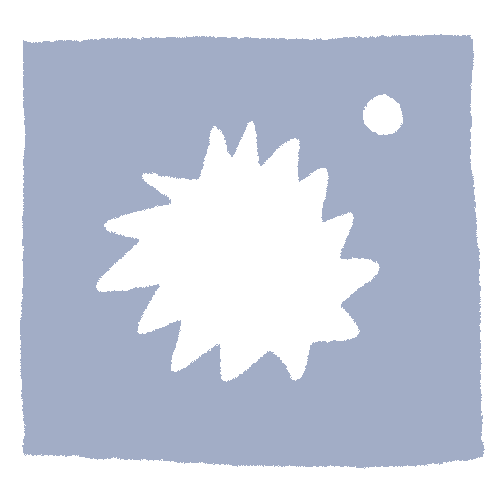
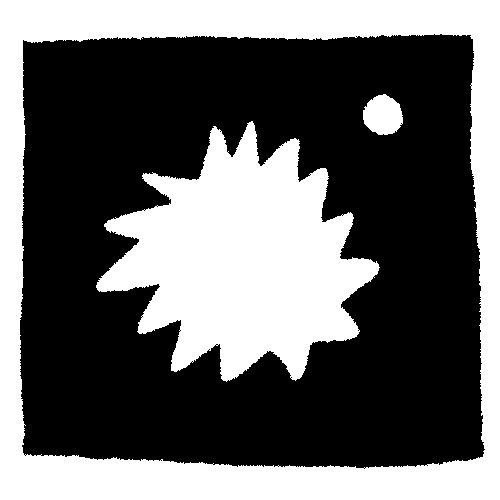
black text

diff --git a/docs/scripts/menu.js/style.css b/docs/scripts/menu.js/style.css
@@ -29,16 +29,16 @@ body{
    
   }
   .icon p {
-    color:rgb(231, 77, 43);
+    color:black;
 /*   
     font-style: italic; */
     font-size: 2vmin;
     text-align: center;
-    background: blue;
+    /* background: blue; */
     
   }
 .text:hover{
-  color: lightsteelblue;
+  color: rgb(231, 77, 43);
 }
 
   /* DROPDOWN */
@@ -56,7 +56,7 @@ body{
     margin-top: 2vmin;
     overflow: hidden;
     transition: all 0.7s;
-    background: pink;
+    /* background: pink; */
   }
   .top {
     transition: all 0.2s;
@@ -68,7 +68,7 @@ body{
   } */
   .menu a {
     text-decoration: none;
-    color: rgb(231, 77, 43);
+    color: BLACK;
     font-size: 2vmin;
     padding: 1.5vmin;
     
@@ -94,7 +94,7 @@ body{
 
 
 .home-house{
-  background: url('image/home-image-2.png');
+  background: url('image/home-image.png');
   height: 25px;
   width: 25px;
   background-position: center;
@@ -105,7 +105,7 @@ body{
 }
 
 .home-house:hover{
-  background: url('image/home-image.png');
+  background: url('image/home-image-2.png');
   height: 25px;
   width: 25px;
   background-position: center;
@@ -113,19 +113,19 @@ body{
 }
   .ow:hover {
     font-style: italic;
-    background: rgba(157,154,244, .3);
+    /* background: rgba(157,154,244, .3); */
   }
   .works:hover {
     font-style: italic;
-    background: rgba(185,210,100, .3);
+    /* background: rgba(185,210,100, .3); */
   }
   .bio:hover {
     font-style: italic;
-    background: rgba(185,210,100, .3);
+    /* background: rgba(185,210,100, .3); */
   }
   .archive:hover {
     font-style: italic;
-    background: rgba(185,210,100, .3);
+    /* background: rgba(185,210,100, .3); */
   }
   /* .sub-menu {
     display: flex;
@@ -139,15 +139,15 @@ body{
   } */
   .comic:hover{
     font-style: italic;
-    background: rgba(218, 232, 96, .3);
+    /* background: rgba(218, 232, 96, .3); */
   }
   .ani:hover{
     font-style: italic;
-    background: rgba(218, 232, 96, .3);
+    /* background: rgba(218, 232, 96, .3); */
   }
   .illu:hover{
     font-style: italic;
-    background: rgba(218, 232, 96, .3);
+    /* background: rgba(218, 232, 96, .3); */
     
   }
   /* .sub-menu a {
@@ -172,7 +172,8 @@ body{
       
     }
     .menu{
-      height: 250px;
+     
+      height: 265px;
       background: none;
       left: 0px;
       width: unset;

diff --git a/docs/scripts/footer.js/main.js b/docs/scripts/footer.js/main.js
@@ -3,8 +3,8 @@ let mainFooter = `
     <div class="footer">
       <h5>alexsensiba@gmail.com</h5>
       <div class="social" >
-        <a href="https://www.instagram.com/alxdae/"><img src="https://bl6pap003files.storage.live.com/y4mEhjg5Ytg0goTk36Wbfq2y1fEMVT7WPWskm-VJDSSDNRjqANdKlfn5mNNSyqftPG0mnk-7UF6RWlqKUPAlFKI6wn5mfBy-kH7d0sNGxjui4_nX9KkbqL87loif1QkYgeN_76buVMuf582hFopMTfv6GteybHmDo8cvpNGb1sEooLRZnC9EEyvPe8Nbnp4hI7j?width=500&height=500&cropmode=none" alt=""></a>
-        <a href="https://twitter.com/alxdae"><img src="https://bl6pap003files.storage.live.com/y4mXJ7l2j3fhq7qcF-QgNirtmCgh043PjtvcfBfVMn5sBGy990R02QZYFn76aXpL4QMaB5tcwy8qVxMDOcAfG9IvPKhfnyEfkH9ddMSGpCUCoDZz-WF2p9X6pjDA-Q0Q86KH0fHpZymWsN1Opa2qMquoruhFhuke1kZAizwlvSMa-MOk4t_y16He7bbgSnPjbeR?width=500&height=500&cropmode=none" alt=""></a>
+        <a href="https://www.instagram.com/alxdae/"><img src="../../scripts/footer.js/image/ig.png" alt=""></a>
+        <a href="https://twitter.com/alxdae"><img src="../../scripts/footer.js/image/twt.png" alt=""></a>
         
       </div>
       <h3>©2022 Alex Sensiba</h3>

diff --git a/docs/scripts/menu.js/main.js b/docs/scripts/menu.js/main.js
@@ -10,12 +10,12 @@ let mainMenu = `
             <nav class="menu">
              <ul>
           
-                    <a class="illu" href="/illustration/">Illustration</a>
-                    <a class="comic" href="/comics/">Comics</a>
-                    <a class="ani" href="/animation">Animation</a>
+                    <a class="illu" href="/illustration/">ILLUSTRATION</a>
+                    <a class="comic" href="/comics/">COMICS</a>
+                    <a class="ani" href="/animation">ANIMATION</a>
                     <a class="ow" href="/otherworld">OtherWorld</a>
-                    <a class="bio" href="/bio/">Bio</a>
-                    <a class="archive" href="/archive">Archive</a>
+                    <a class="bio" href="/bio/">BIO</a>
+                    <a class="archive" href="/archive">ARCHIVE</a>
                  
                 </li>
               

diff --git a/docs/scripts/footer.js/style.css b/docs/scripts/footer.js/style.css
@@ -26,14 +26,14 @@ body{
 }
 
 h5{
-  color: rgb(231, 77, 43);
+  color: black;
   font-size: 1.5vmin;
   font-style: italic;
   text-align: justify;
 }
   
 h3{
-  color: rgb(202,190,129);
+  color: black;
   font-size: 1.5vmin;
 
   text-align: center;

diff --git a/docs/scripts/desk-menu.js/style.css b/docs/scripts/desk-menu.js/style.css
@@ -135,7 +135,7 @@ p {
     margin-top: 10vmin;
   } 
    .desk-menu a {
-    font-size: 3vmin;
+    font-size: 2.5vmin;
     margin: 0;
     padding: 2px;
   } 
